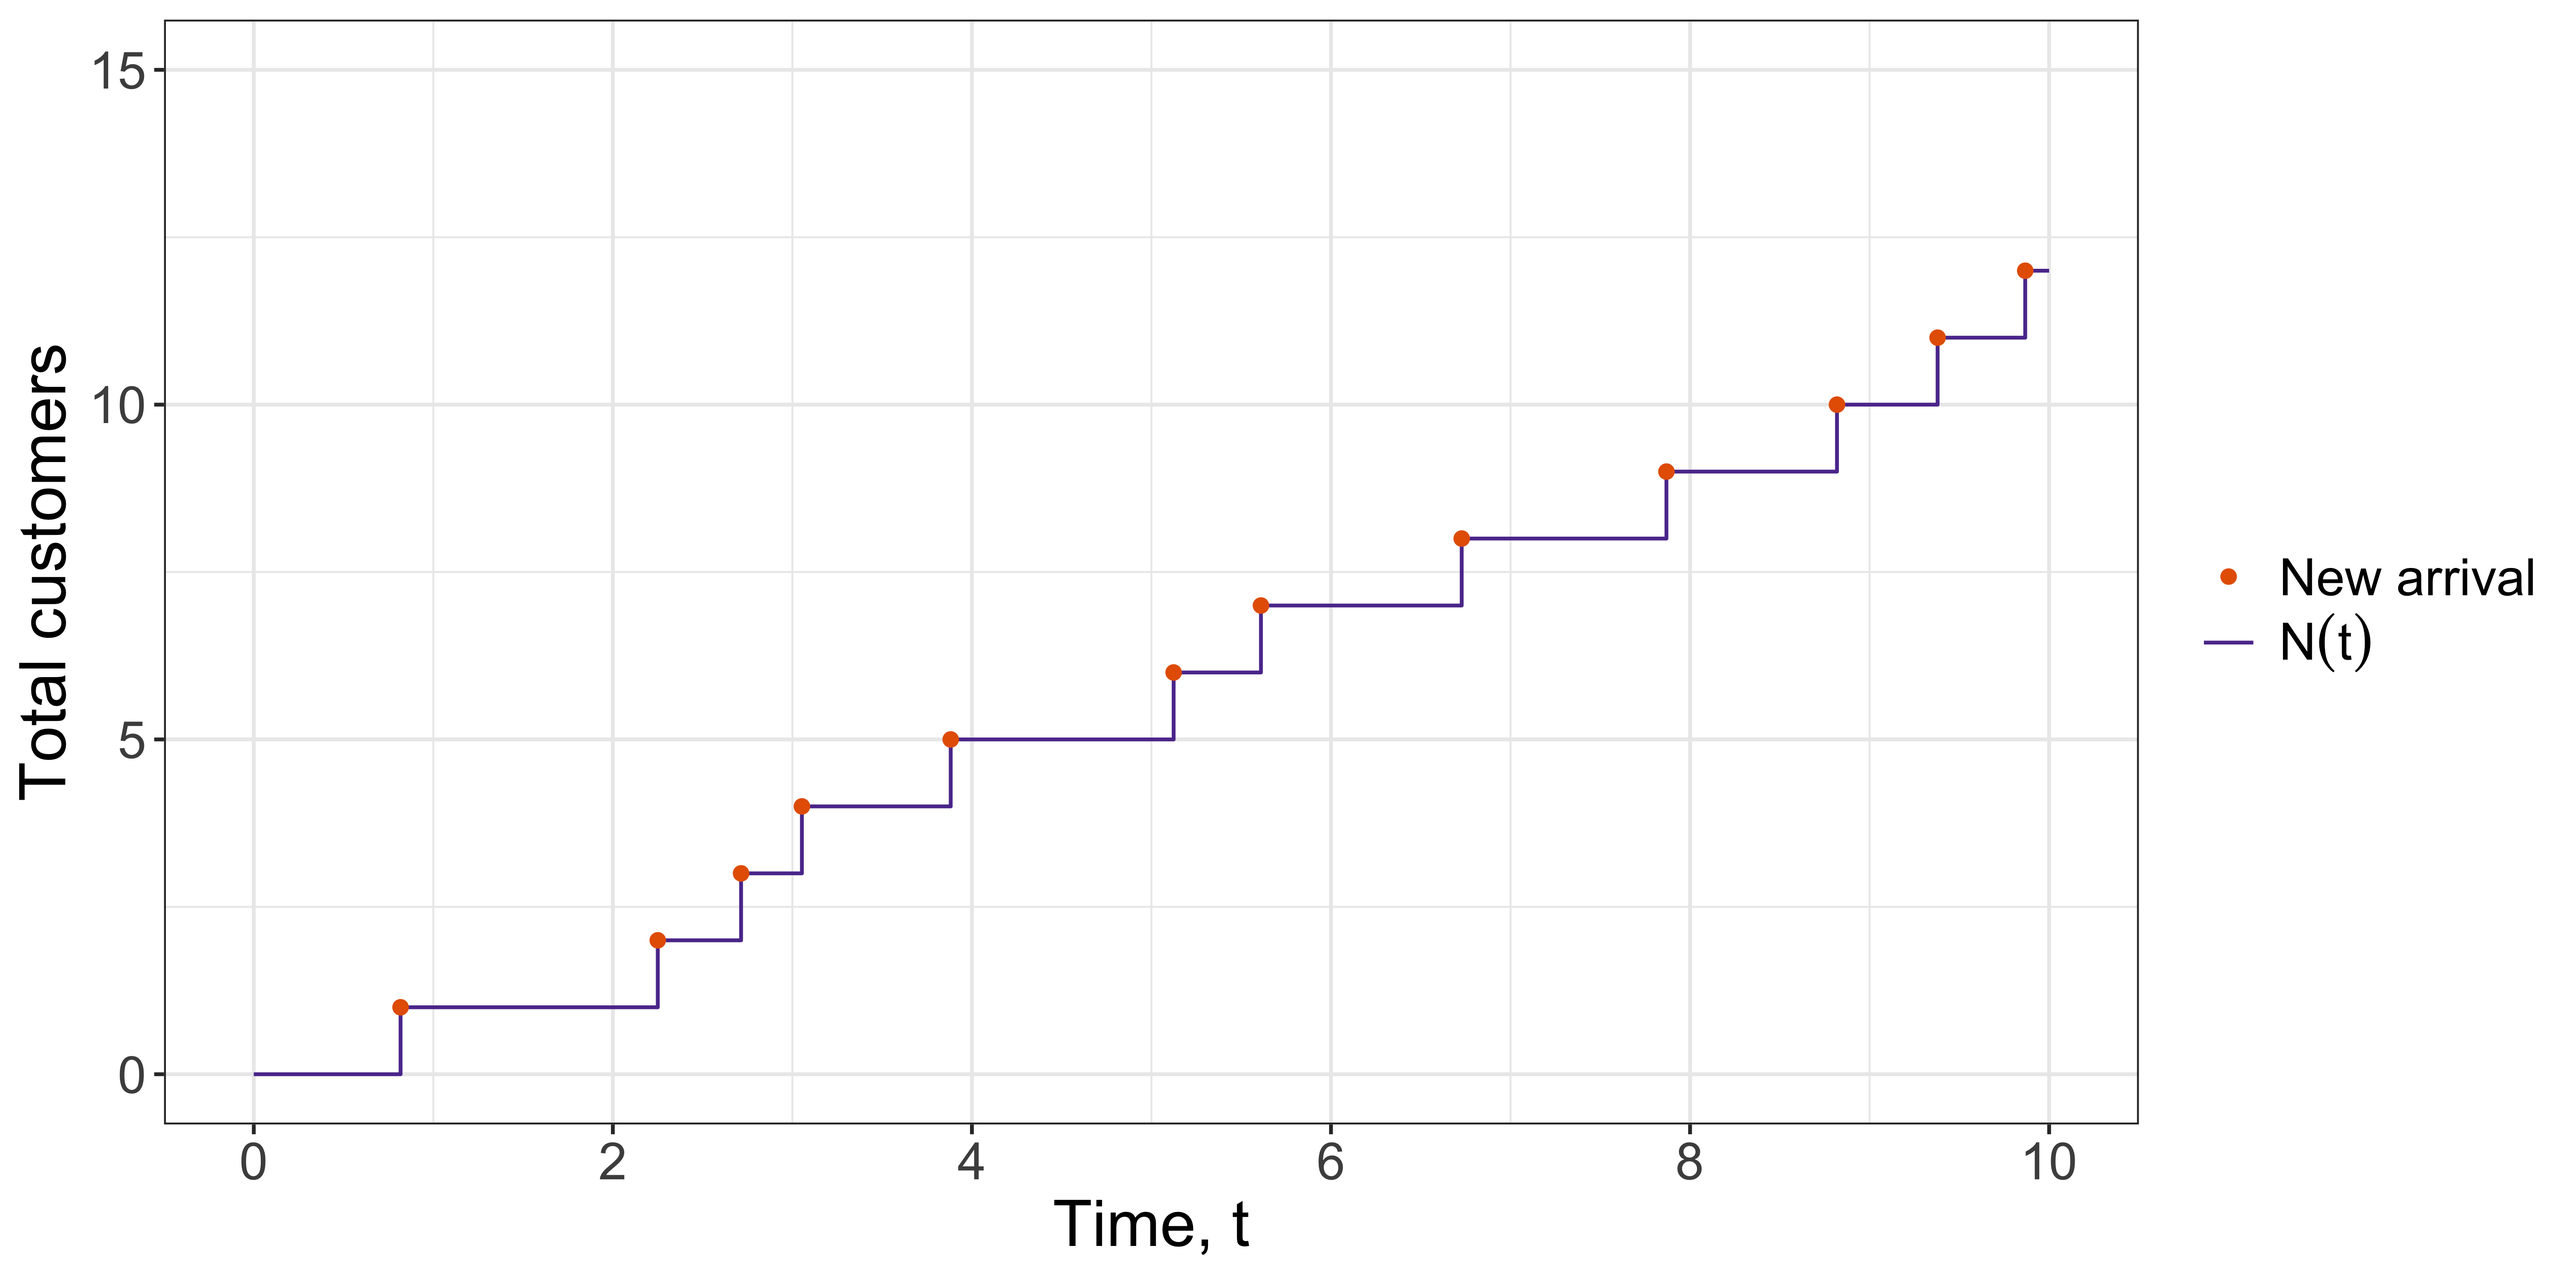
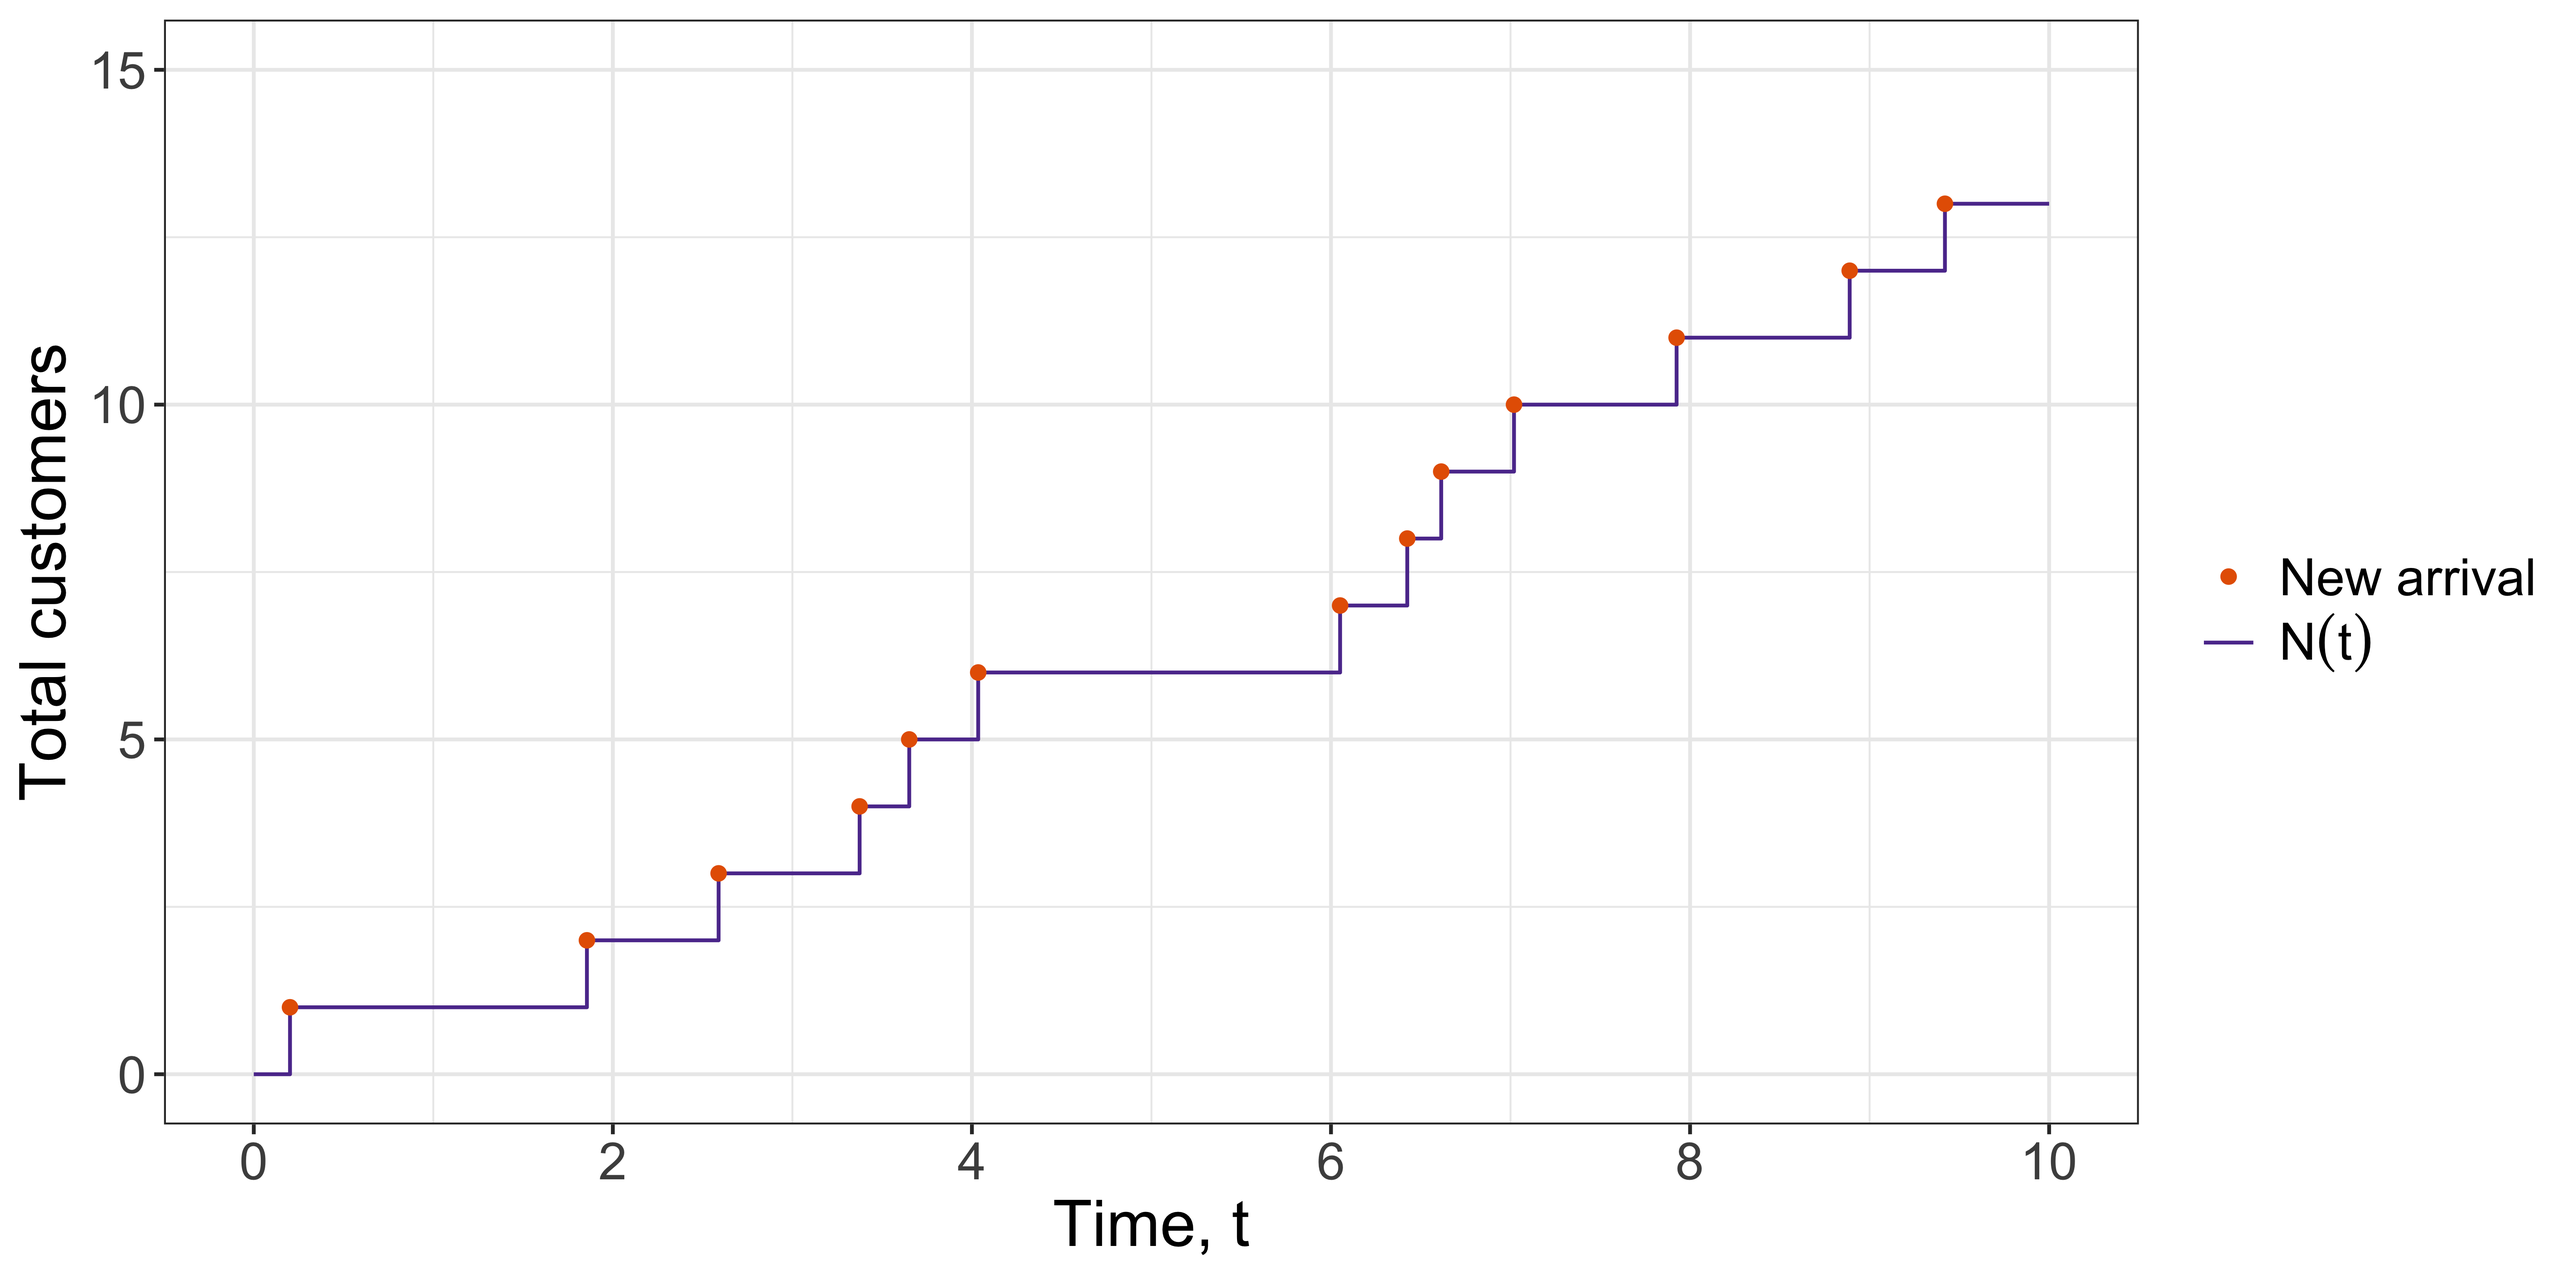
Cache added

diff --git a/pp.html b/pp.html
@@ -439,6 +439,26 @@ Joshua J Bon
 <h1>Poisson processes</h1>
 
 </section>
+<section id="the-poisson-process" class="slide level2">
+<h2>The Poisson process</h2>
+<div class="callout callout-note callout-titled callout-style-default">
+<div class="callout-body">
+<div class="callout-title">
+<div class="callout-icon-container">
+<i class="callout-icon"></i>
+</div>
+<p><strong>Definition: Poisson process</strong></p>
+</div>
+<div class="callout-content">
+<ol type="1">
+<li class="fragment"></li>
+<li class="fragment"></li>
+<li class="fragment"></li>
+</ol>
+</div>
+</div>
+</div>
+</section>
 <section id="visualising-the-poisson-process" class="slide level2">
 <h2>Visualising the Poisson process</h2>
 
@@ -454,8 +474,12 @@ Joshua J Bon
 <section id="visualising-the-poisson-process-3" class="slide level2">
 <h2>Visualising the Poisson process</h2>
 
-<img data-src="pp_files/figure-revealjs/PPmean-1.png" width="2880" class="r-stretch quarto-figure-center"><p class="caption">Process mean and realisations</p></section>
+<img data-src="pp_files/figure-revealjs/PPr4-1.png" width="2880" class="r-stretch quarto-figure-center"><p class="caption">Process realisation 4</p></section>
 <section id="visualising-the-poisson-process-4" class="slide level2">
+<h2>Visualising the Poisson process</h2>
+
+<img data-src="pp_files/figure-revealjs/PPmean-1.png" width="2880" class="r-stretch quarto-figure-center"><p class="caption">Process mean and realisations</p></section>
+<section id="visualising-the-poisson-process-5" class="slide level2">
 <h2>Visualising the Poisson process</h2>
 <div>
 
@@ -482,7 +506,7 @@ Joshua J Bon
 </div>
 <p>Distribution at time t</p>
 </section>
-<section id="visualising-the-poisson-process-5" class="slide level2">
+<section id="visualising-the-poisson-process-6" class="slide level2">
 <h2>Visualising the Poisson process</h2>
 <div>
 
@@ -508,7 +532,7 @@ Joshua J Bon
 </div>
 </div>
 </section>
-<section id="visualising-the-poisson-process-6" class="slide level2">
+<section id="visualising-the-poisson-process-7" class="slide level2">
 <h2>Visualising the Poisson process</h2>
 <div>
 
@@ -534,7 +558,7 @@ Joshua J Bon
 </div>
 </div>
 </section>
-<section id="visualising-the-poisson-process-7" class="slide level2">
+<section id="visualising-the-poisson-process-8" class="slide level2">
 <h2>Visualising the Poisson process</h2>
 <div>
 
@@ -556,6 +580,33 @@ Joshua J Bon
 <figcaption>Distribution at time t=8</figcaption>
 </figure>
 </div>
+</div>
+</div>
+</div>
+</section></section>
+<section>
+<section id="activity" class="title-slide slide level1 center">
+<h1>Activity</h1>
+
+</section>
+<section id="tools-of-the-day" class="slide level2">
+<h2>Tools of the day</h2>
+</section>
+<section id="the-poisson-distribution" class="slide level2">
+<h2>The Poisson Distribution</h2>
+<div class="callout callout-note callout-titled callout-style-default">
+<div class="callout-body">
+<div class="callout-title">
+<div class="callout-icon-container">
+<i class="callout-icon"></i>
+</div>
+<p><strong>Poisson random variable</strong></p>
+</div>
+<div class="callout-content">
+<p>The random variable <span class="math inline">\(X \in \mathbb{N}_0\)</span> is Poisson distributed with rate <span class="math inline">\(\lambda\)</span> or</p>
+<p><span class="math inline">\(X \sim \mathcal{P}(\lambda)\)</span> when <span class="math display">\[
+\mathbb{P}(X = k) = \frac{\lambda^{k}e^{-\lambda}}{k!}, \quad \forall k \in \mathbb{N}_0
+\]</span></p>
 </div>
 </div>
 </div>
@@ -593,33 +644,6 @@ Joshua J Bon
 <li class="fragment"><p>Adopted quickly in: biology, ecology, engineering, physics</p></li>
 </ul>
 <aside><ol class="aside-footnotes"><li id="fn1"><p>See <span class="citation" data-cites="stirzaker2000advice">Stirzaker (<a href="#/references" role="doc-biblioref" onclick="">2000</a>)</span> for more details</p></li></ol></aside></section></section>
-<section>
-<section id="activity" class="title-slide slide level1 center">
-<h1>Activity</h1>
-
-</section>
-<section id="tools-of-the-day" class="slide level2">
-<h2>Tools of the day</h2>
-</section>
-<section id="the-poisson-distribution" class="slide level2">
-<h2>The Poisson Distribution</h2>
-<div class="callout callout-note callout-titled callout-style-default">
-<div class="callout-body">
-<div class="callout-title">
-<div class="callout-icon-container">
-<i class="callout-icon"></i>
-</div>
-<p><strong>Poisson random variable</strong></p>
-</div>
-<div class="callout-content">
-<p>The random variable <span class="math inline">\(X \in \mathbb{N}_0\)</span> is Poisson distributed with rate <span class="math inline">\(\lambda\)</span> or</p>
-<p><span class="math inline">\(X \sim \mathcal{P}(\lambda)\)</span> when <span class="math display">\[
-\mathbb{P}(X = k) = \frac{\lambda^{k}e^{-\lambda}}{k!}, \quad \forall k \in \mathbb{N}_0
-\]</span></p>
-</div>
-</div>
-</div>
-</section></section>
 <section>
 <section id="more" class="title-slide slide level1 center">
 <h1>More</h1>
